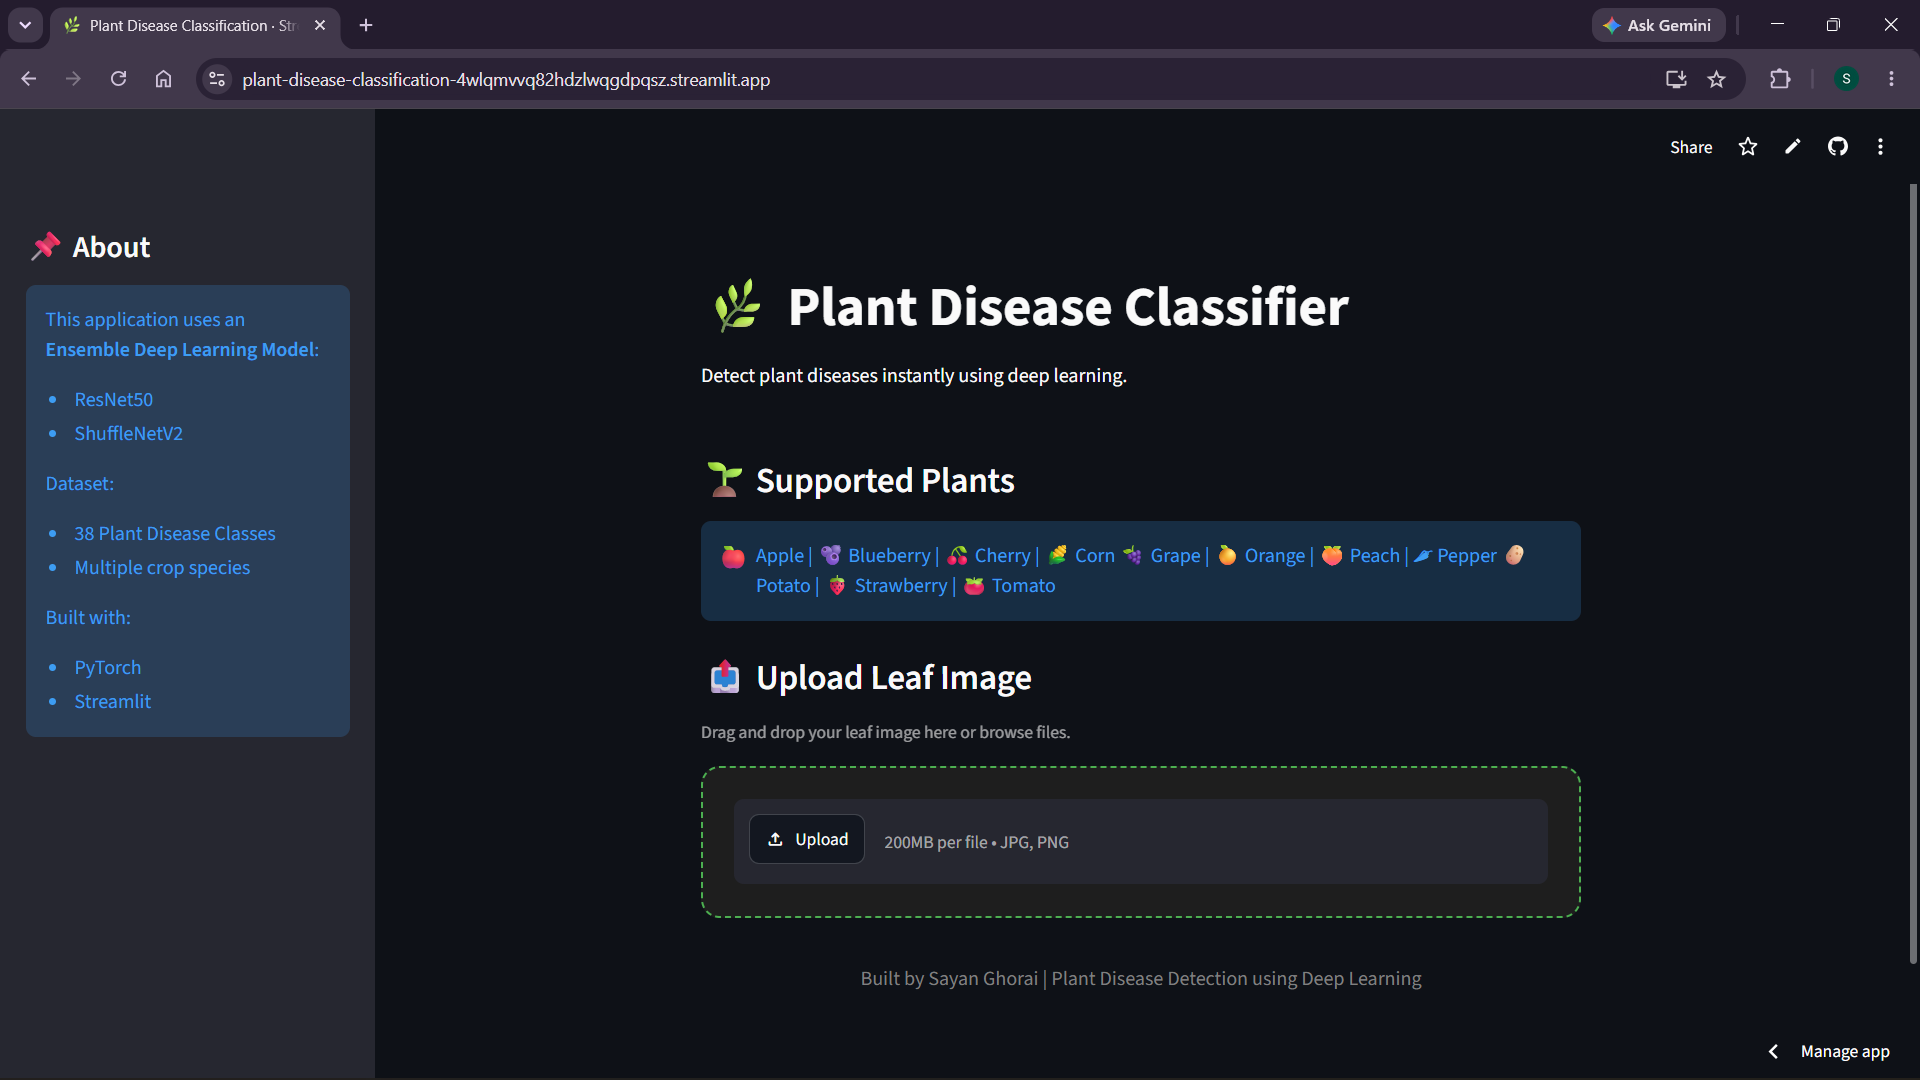
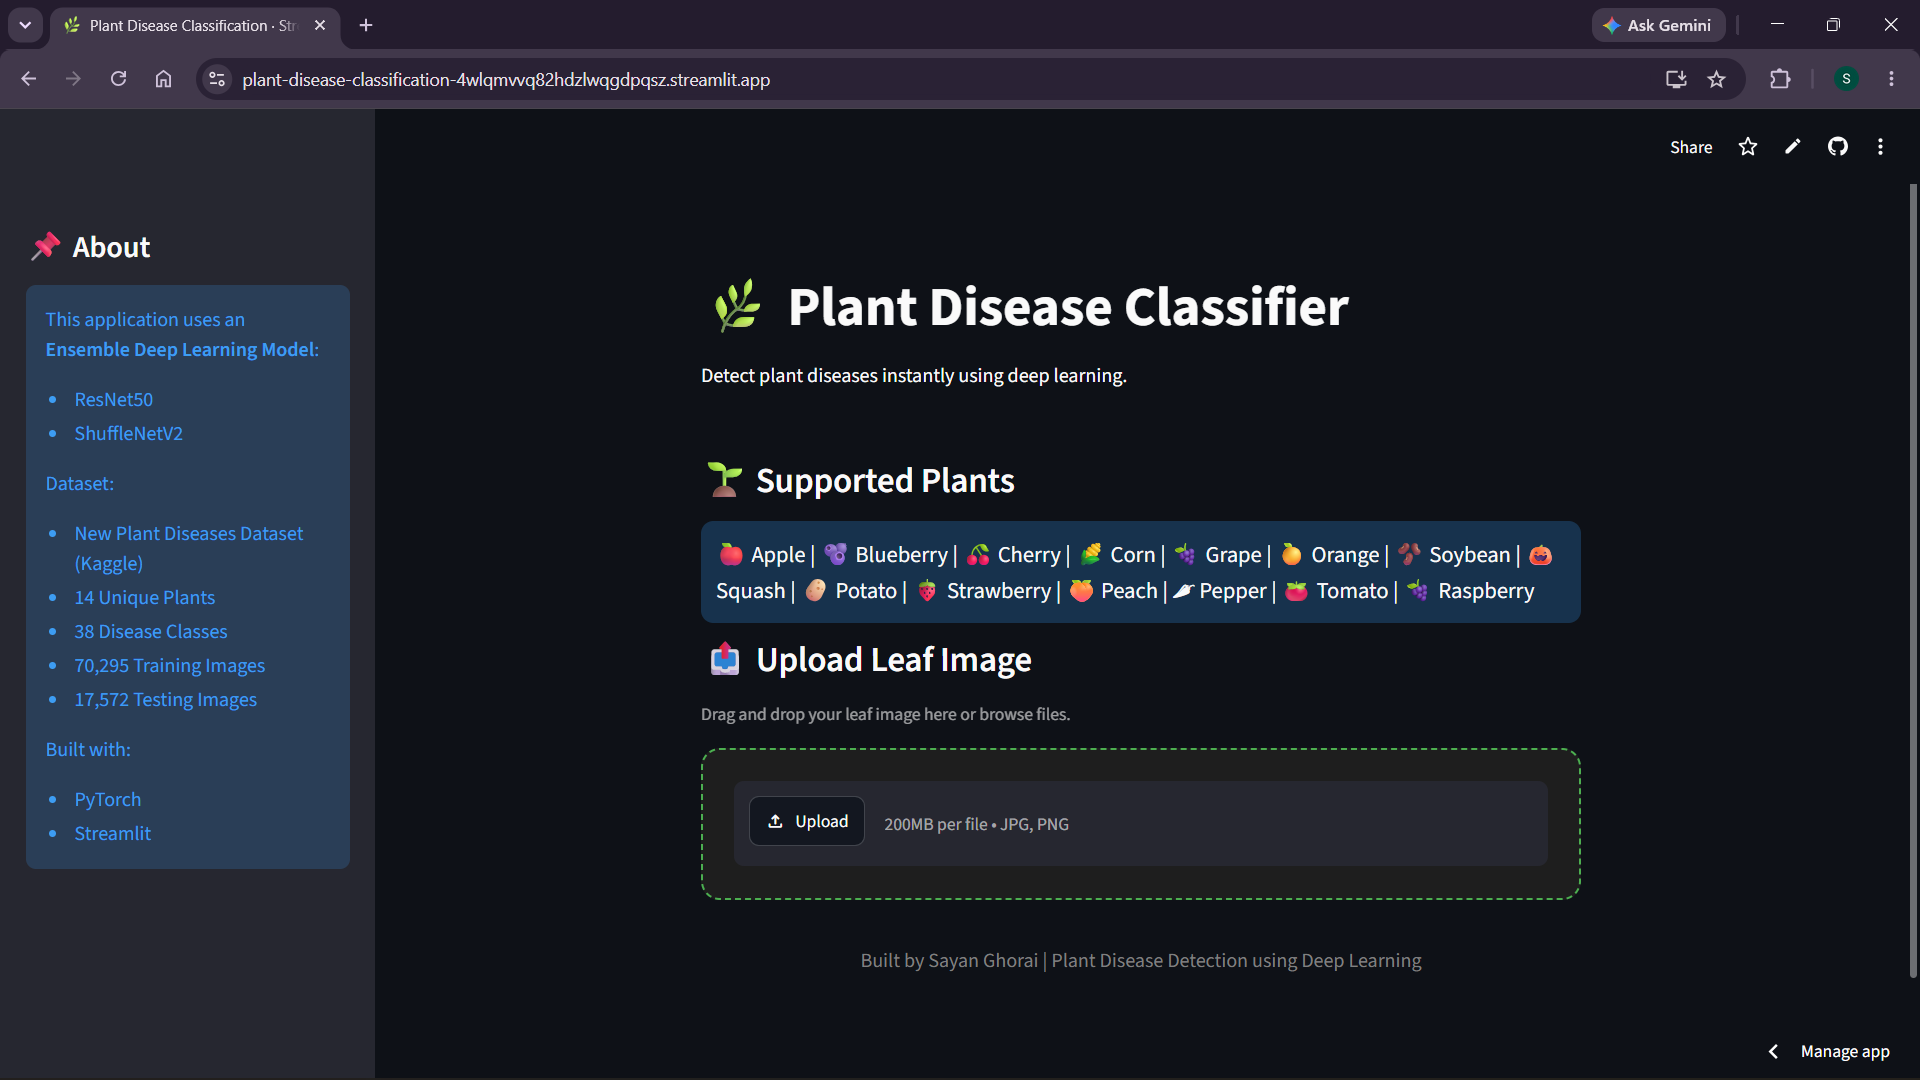
Improved Streamlit UI

diff --git a/app.py b/app.py
@@ -111,13 +111,12 @@ st.set_page_config(
     layout="centered"
 )
 
-# Custom CSS for bigger upload box
 st.markdown("""
 <style>
 [data-testid="stFileUploader"] {
     border: 2px dashed #4CAF50;
-    border-radius: 15px;
-    padding: 25px;
+    border-radius: 12px;
+    padding: 12px;
     background-color: #1e1e1e;
 }
 </style>
